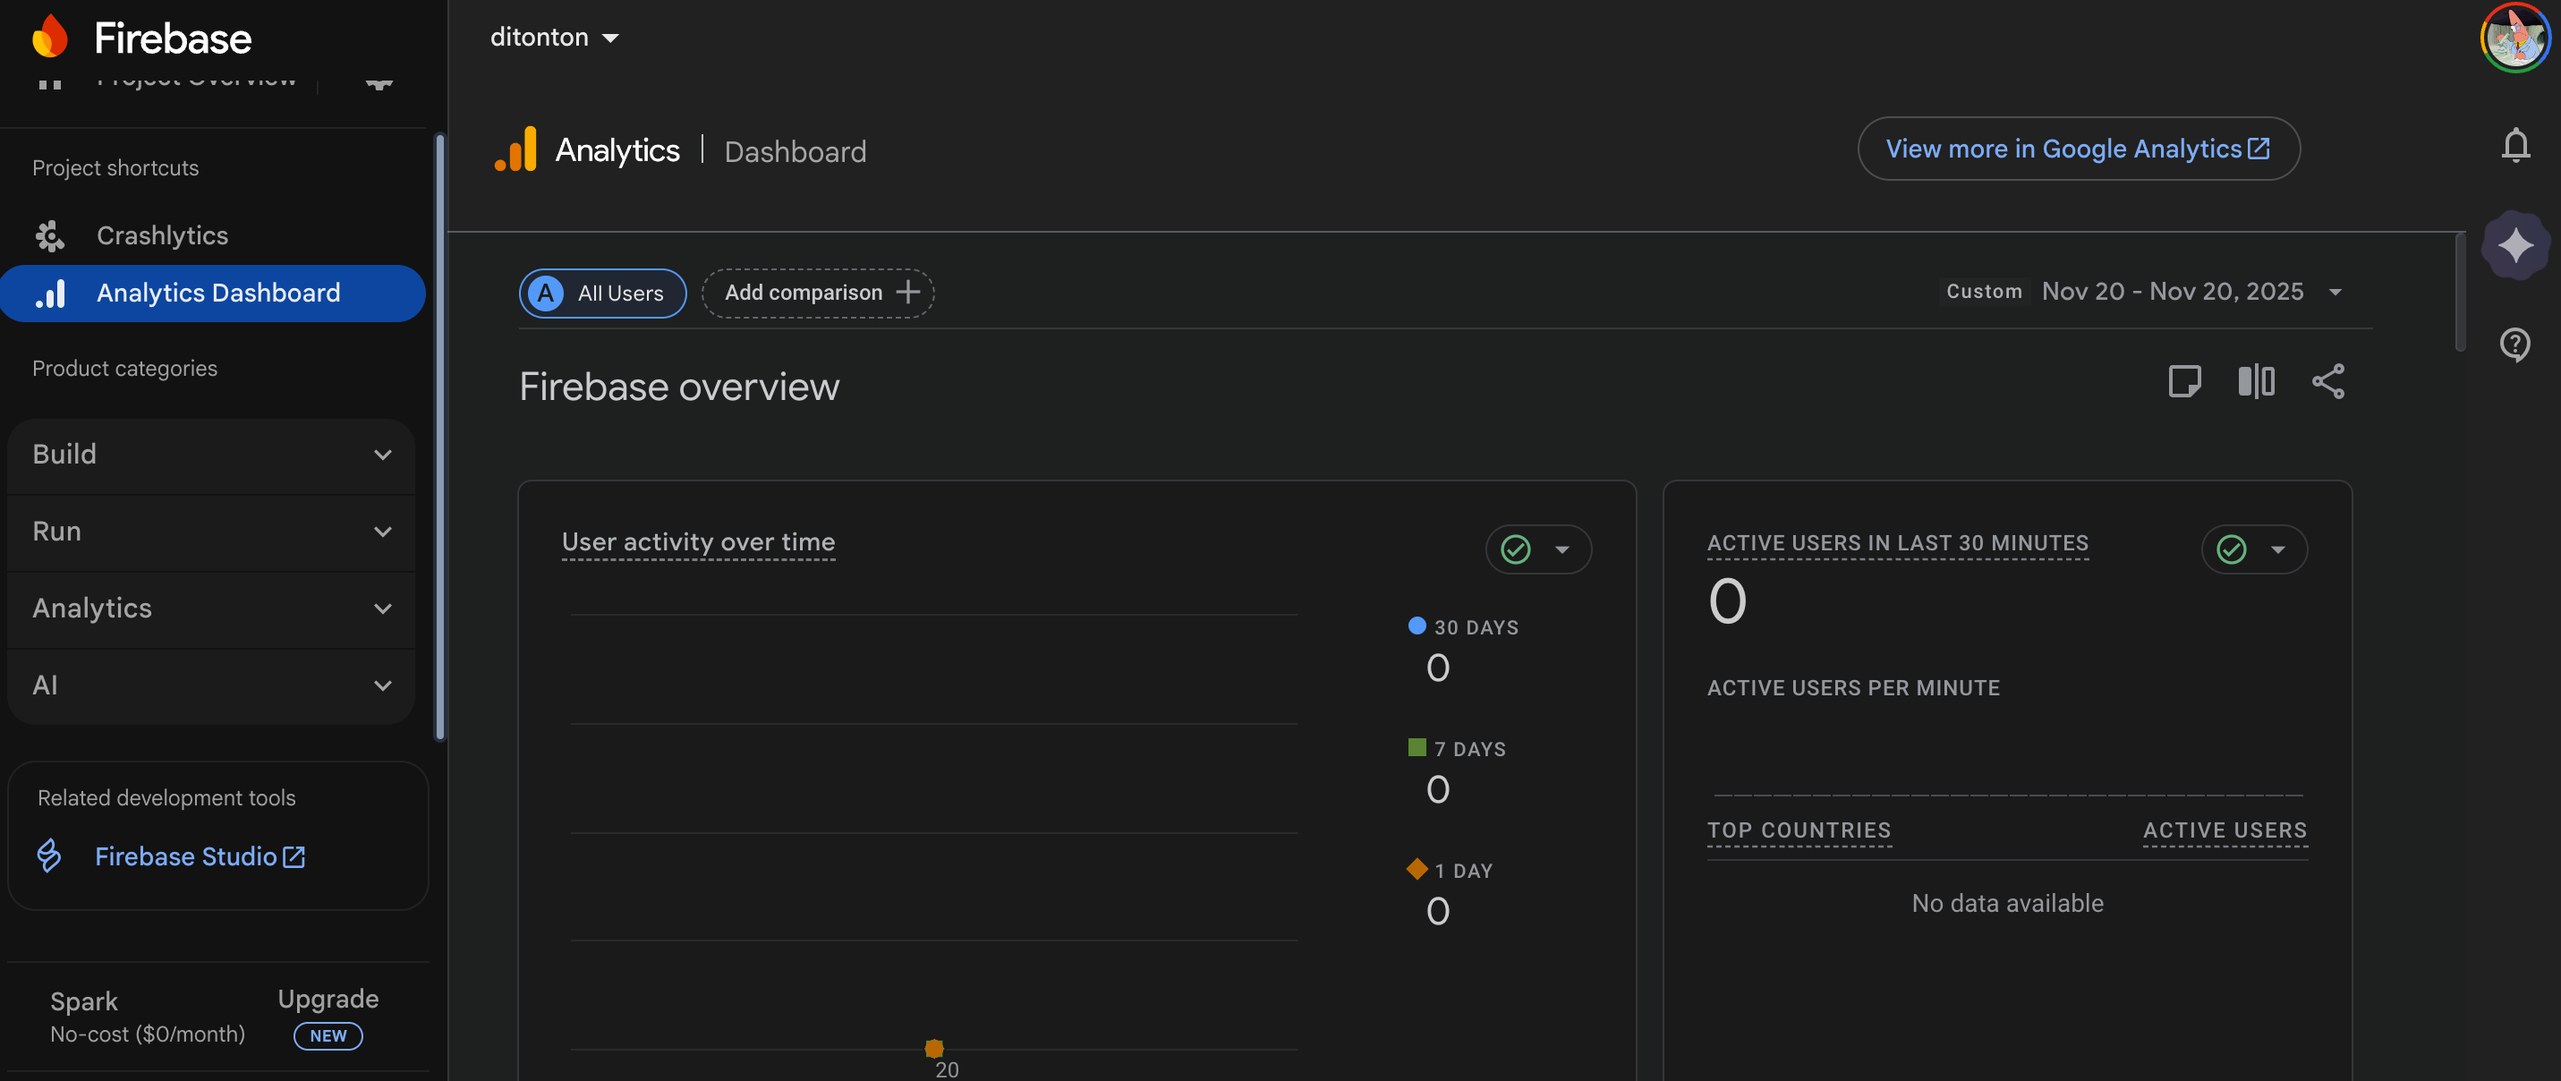
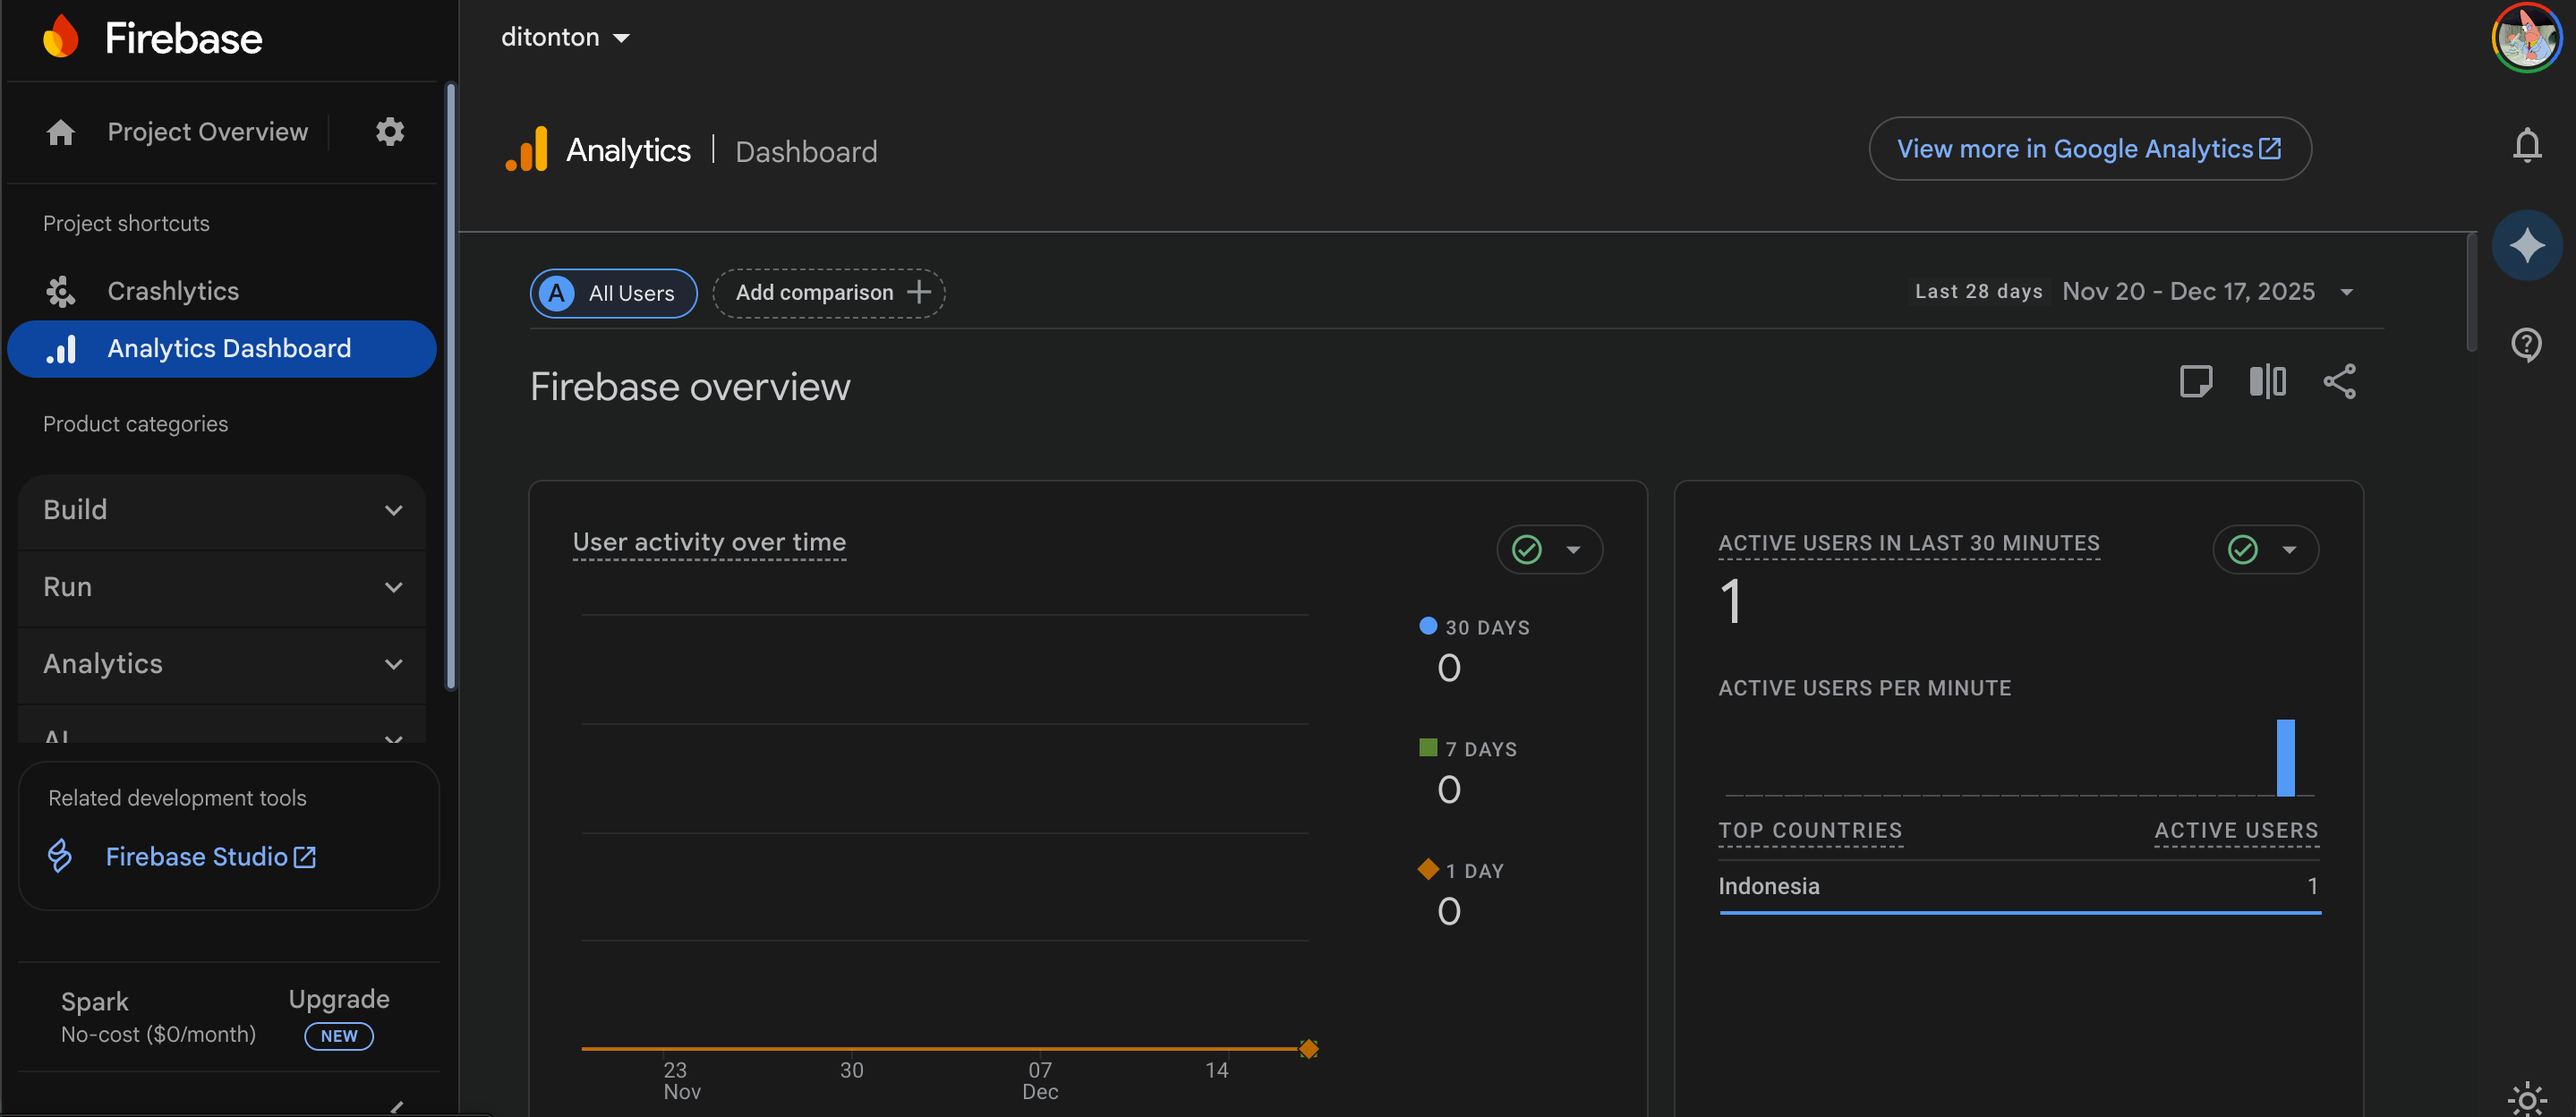
added analytics firebase

diff --git a/lib/main.dart b/lib/main.dart
@@ -2,6 +2,7 @@ import 'package:core/common/constants.dart';
 import 'package:core/common/utils.dart';
 import 'package:core/common/http_ssl_pinning.dart';
 import 'package:ditonton/injection.dart' as di;
+import 'package:firebase_analytics/firebase_analytics.dart';
 import 'package:tv_series/bloc/detail/detail_tv_series_bloc.dart';
 import 'package:tv_series/bloc/now_playing/now_playing_tv_series_bloc.dart';
 import 'package:tv_series/bloc/popular/popular_tv_series_bloc.dart';
@@ -47,6 +48,10 @@ void main() async {
 }
 
 class MyApp extends StatelessWidget {
+  static FirebaseAnalytics analytics = FirebaseAnalytics.instance;
+  static FirebaseAnalyticsObserver observer =
+  FirebaseAnalyticsObserver(analytics: analytics);
+
   @override
   Widget build(BuildContext context) {
     return MultiProvider(
